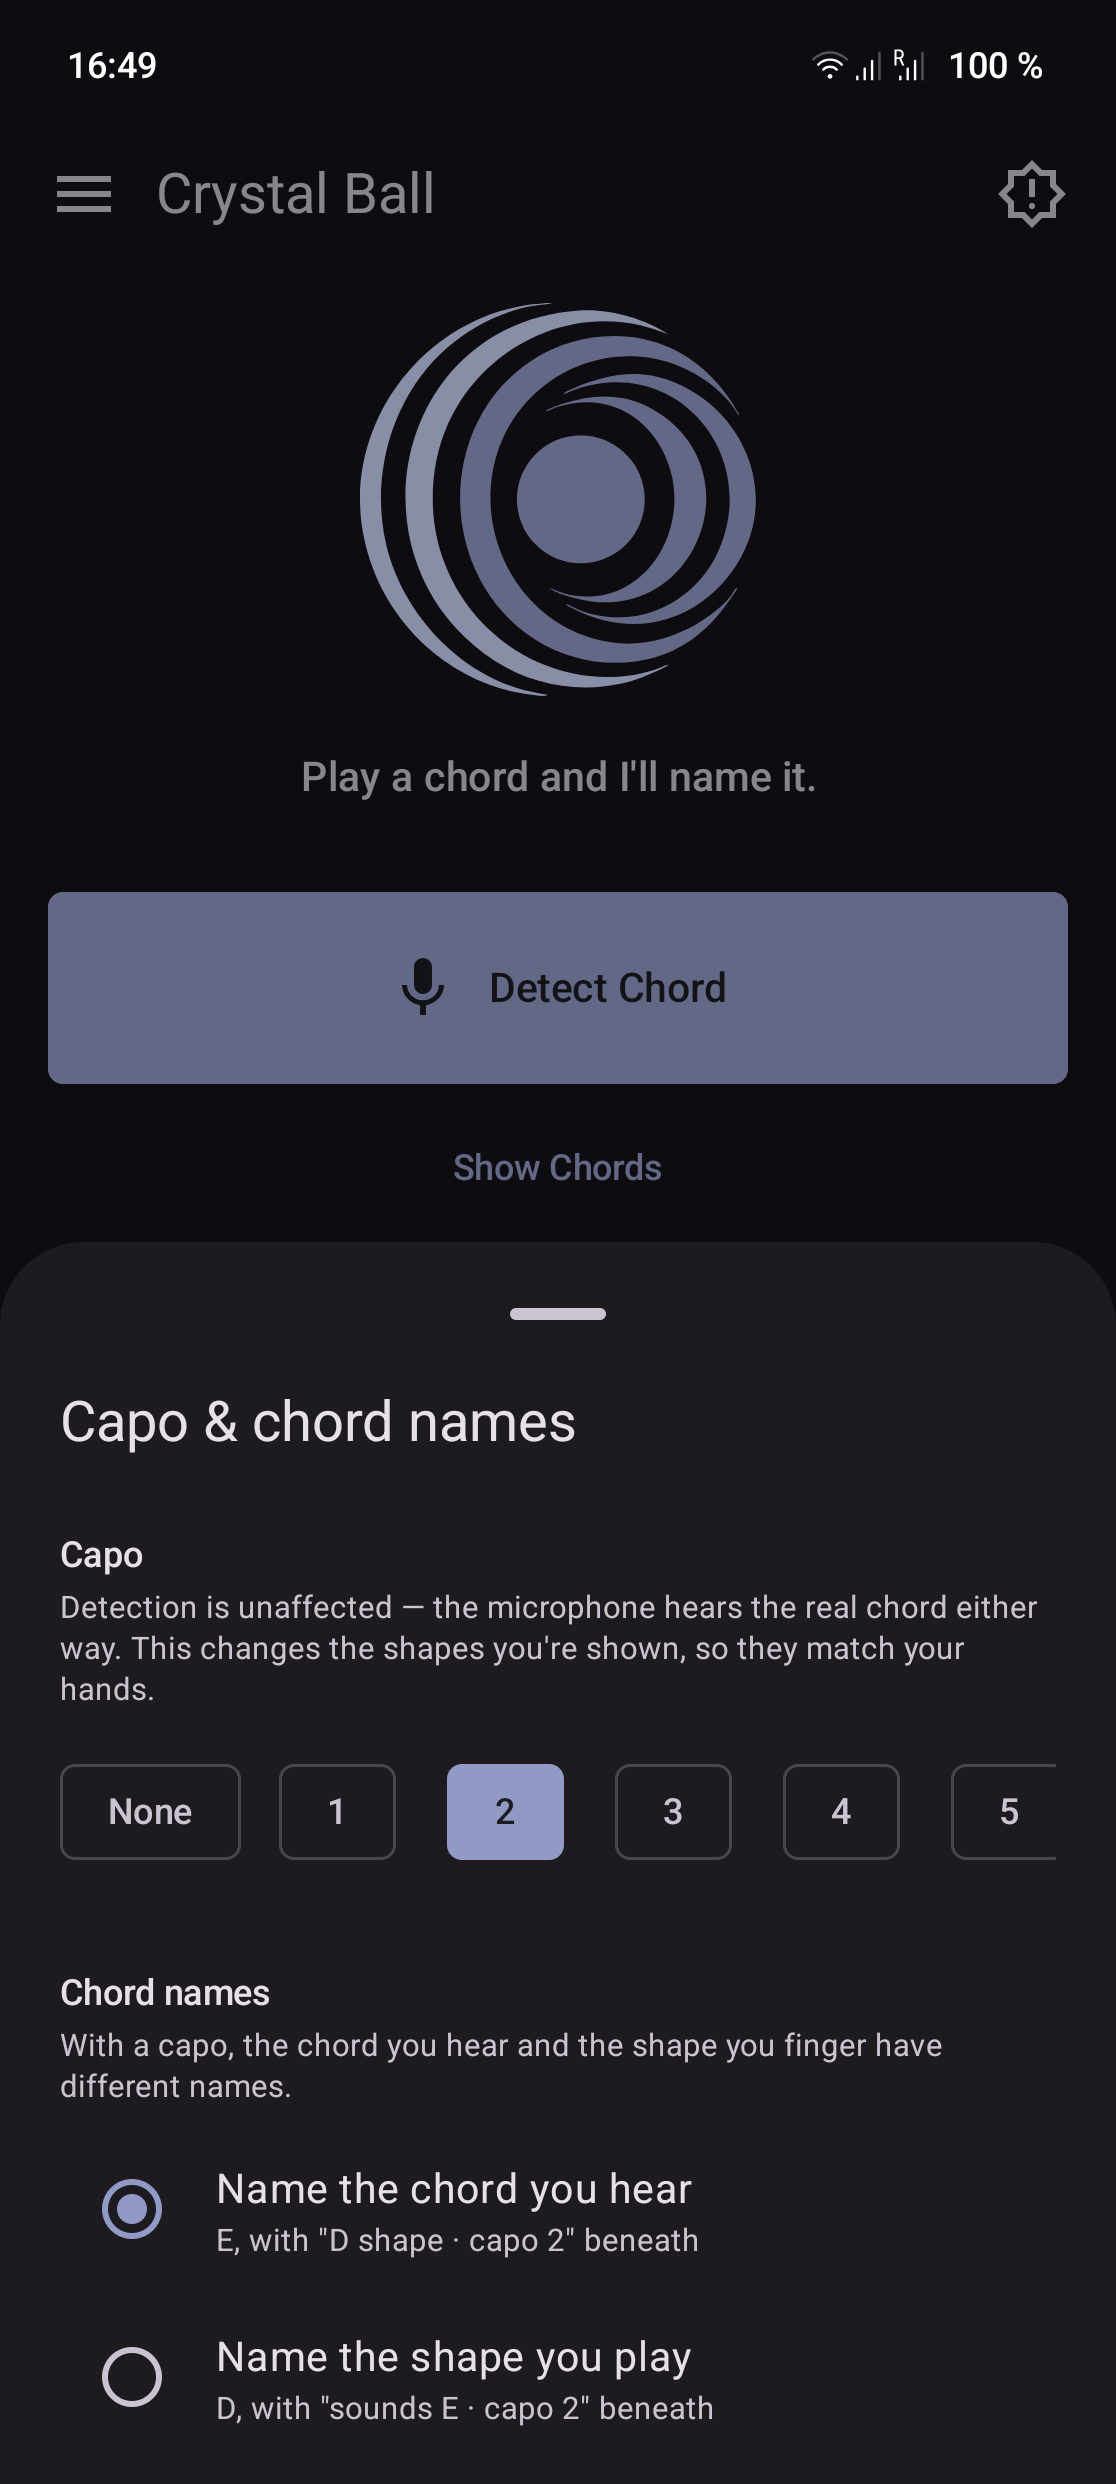
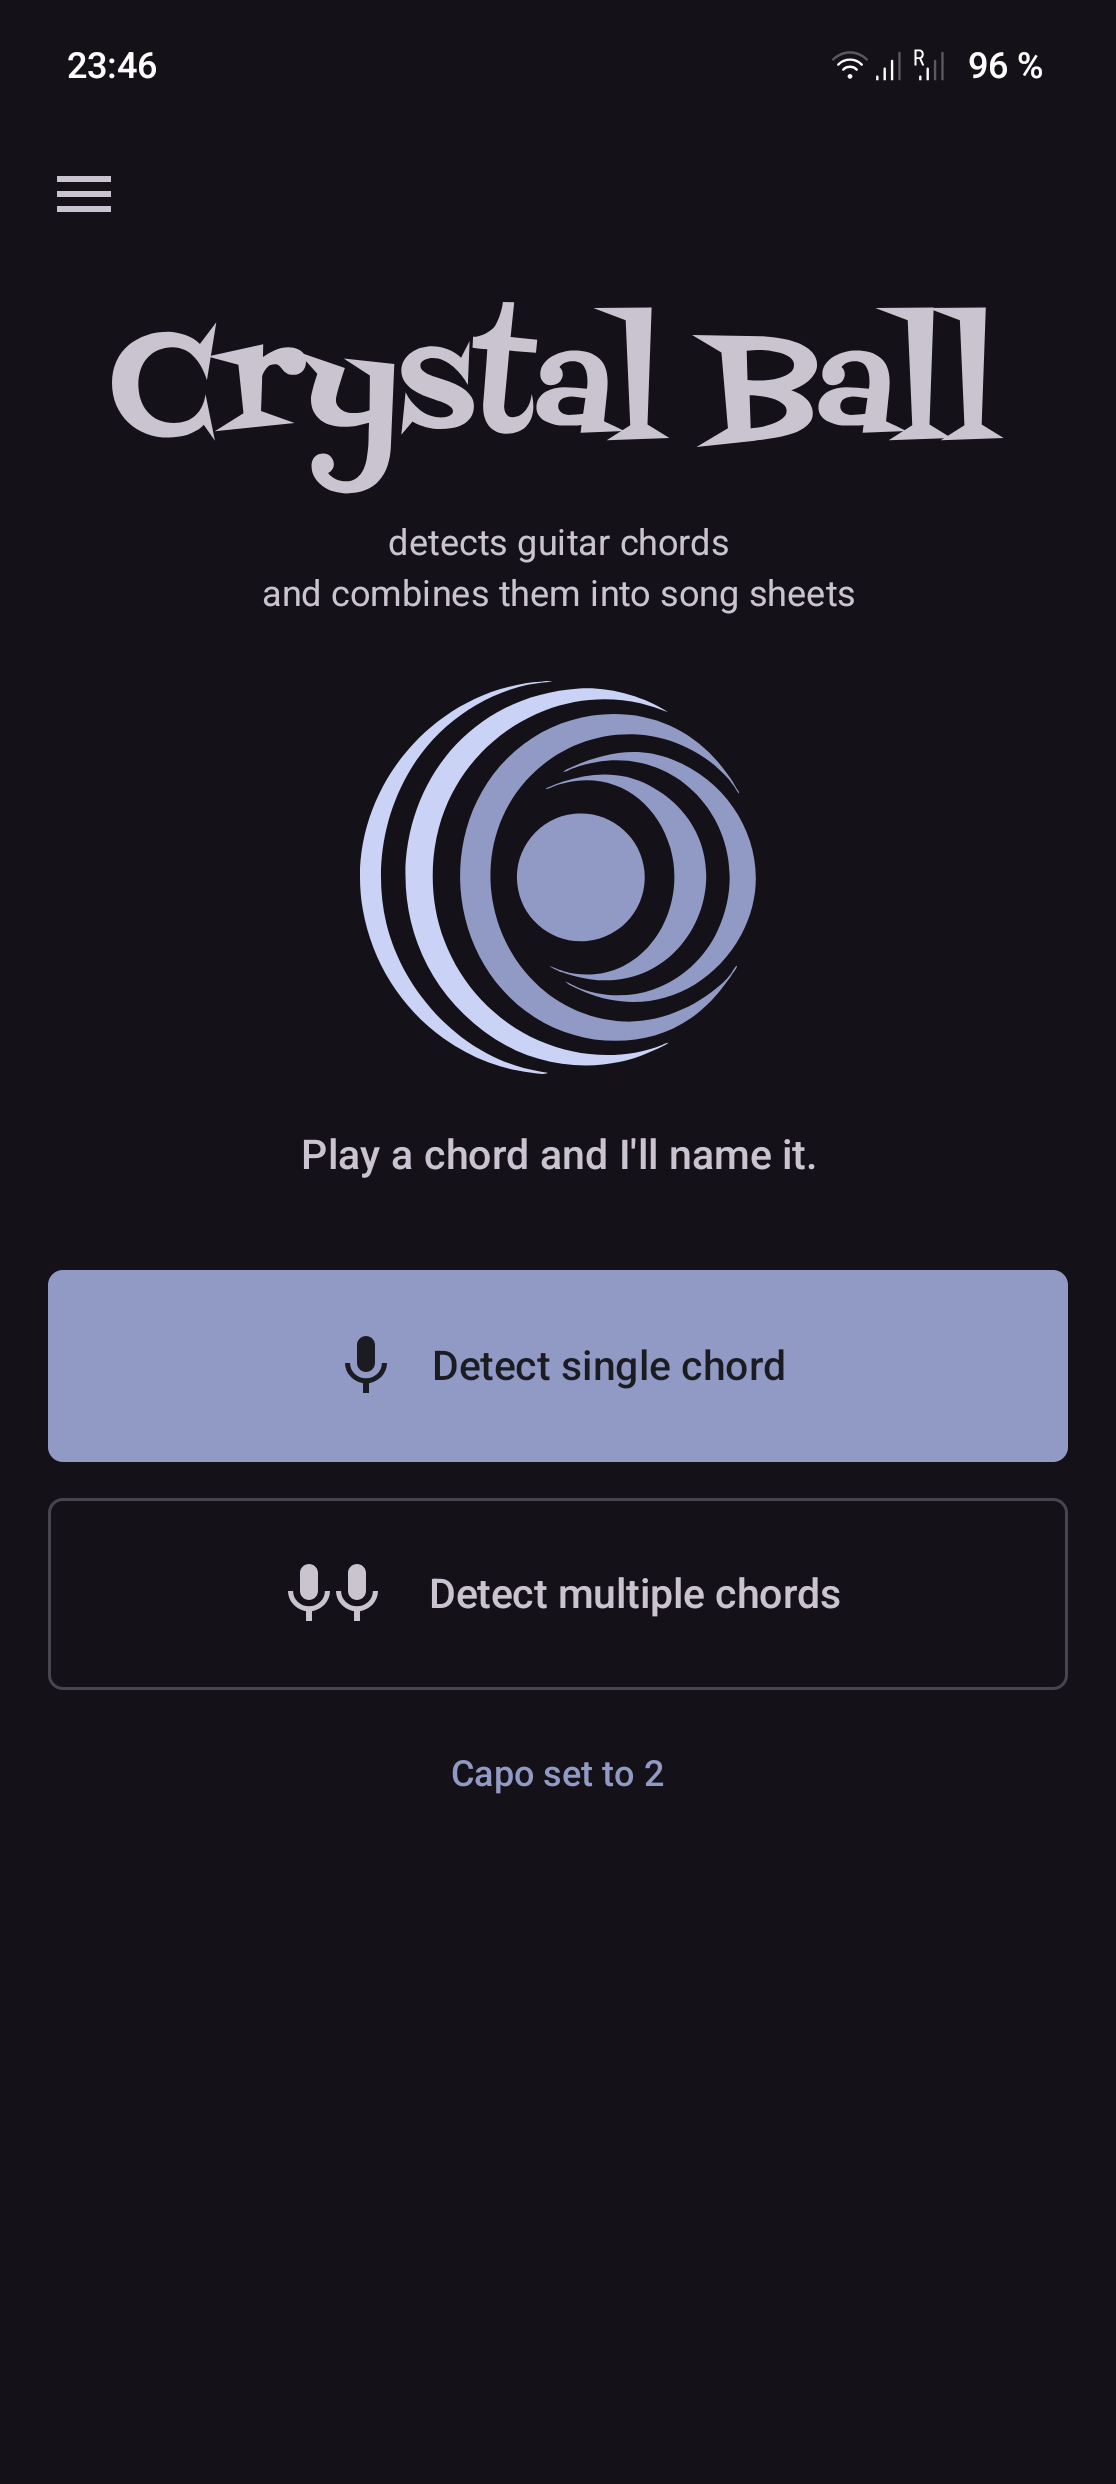
Swap the baked-in claim for the wordmark plus live text
The claim drawable carried its tagline as outlined paths below the
wordmark. Replace it with the wordmark-only artwork and render the
tagline as real Text, so it stays legible at any size and is read
aloud as words rather than mute paths. Refresh the README screenshot
to the new home screen.

diff --git a/app/src/main/java/de/singular/crystalball/ui/Common.kt b/app/src/main/java/de/singular/crystalball/ui/Common.kt
@@ -14,6 +14,7 @@ import androidx.compose.foundation.clickable
 import androidx.compose.foundation.horizontalScroll
 import androidx.compose.foundation.layout.Arrangement
 import androidx.compose.foundation.layout.Box
+import androidx.compose.foundation.layout.Column
 import androidx.compose.foundation.layout.ExperimentalLayoutApi
 import androidx.compose.foundation.layout.FlowRow
 import androidx.compose.foundation.layout.Row
@@ -37,6 +38,7 @@ import androidx.compose.ui.Modifier
 import androidx.compose.ui.draw.clip
 import androidx.compose.ui.graphics.graphicsLayer
 import androidx.compose.ui.res.painterResource
+import androidx.compose.ui.text.style.TextAlign
 import androidx.compose.ui.unit.Dp
 import androidx.compose.ui.unit.dp
 import de.singular.crystalball.ChordView
@@ -64,27 +66,41 @@ val BUTTON_MAX_WIDTH = 340.dp
 const val SPIN_PERIOD_MS = 9000
 
 /**
- * The wordmark and what the app is for, in one drawn line above the mark on the home screen.
+ * The wordmark and what the app is for, stacked above the mark on the home screen.
  *
- * A single-colour vector — the type is already outlined to paths — so it is tinted here rather than
- * carrying its own colour, and reads in either theme. Sized to the width it is given, keeping the
- * banner's aspect, so it never runs off the edge of a narrow phone.
+ * The wordmark is a single-colour vector — the type is already outlined to paths — so it is tinted
+ * here rather than carrying its own colour, and reads in either theme. Sized to the width it is
+ * given, keeping the banner's aspect, so it never runs off the edge of a narrow phone. The tagline
+ * underneath is live text rather than more outlined paths, so it stays legible at any size and is
+ * read aloud as words; the wordmark carries no description of its own to keep it from being spoken
+ * twice.
  */
 @Composable
 fun Claim(modifier: Modifier = Modifier) {
-    Icon(
-        painter = painterResource(R.drawable.claim),
-        contentDescription = "Crystal Ball — detects guitar chords and lets you combine them " +
-            "into song sheets",
-        tint = MaterialTheme.colorScheme.onSurfaceVariant,
-        modifier = modifier
-            .width(300.dp)
-            .aspectRatio(CLAIM_ASPECT),
-    )
+    Column(
+        modifier = modifier.width(300.dp),
+        horizontalAlignment = Alignment.CenterHorizontally,
+    ) {
+        Icon(
+            painter = painterResource(R.drawable.claim),
+            contentDescription = null,
+            tint = MaterialTheme.colorScheme.onSurfaceVariant,
+            modifier = Modifier
+                .fillMaxWidth()
+                .aspectRatio(CLAIM_ASPECT),
+        )
+        Text(
+            text = "detects guitar chords\nand combines them into song sheets",
+            style = MaterialTheme.typography.bodyMedium,
+            color = MaterialTheme.colorScheme.onSurfaceVariant,
+            textAlign = TextAlign.Center,
+            modifier = Modifier.padding(top = 8.dp),
+        )
+    }
 }
 
-/** The claim banner's width-to-height, from its 1263×378 artwork. */
-private const val CLAIM_ASPECT = 1263f / 378f
+/** The wordmark's width-to-height, from its 1263×270 artwork. */
+private const val CLAIM_ASPECT = 1263f / 270f
 
 /** The app mark. [rotation] turns the swirl, which the listening screens animate. */
 @Composable

diff --git a/README.md b/README.md
@@ -9,7 +9,7 @@ Early-stage release — expect rough edges. Feedback and bug reports welcome via
 
 ## Screenshots
 
-<img src="docs/screenshot.png" alt="Crystal Ball ready to listen, with the capo sheet open" width="320" />
+<img src="docs/screenshot.png" alt="Crystal Ball's home screen: the wordmark and tagline above the mark, ready to listen" width="320" />
 
 ## Features
 